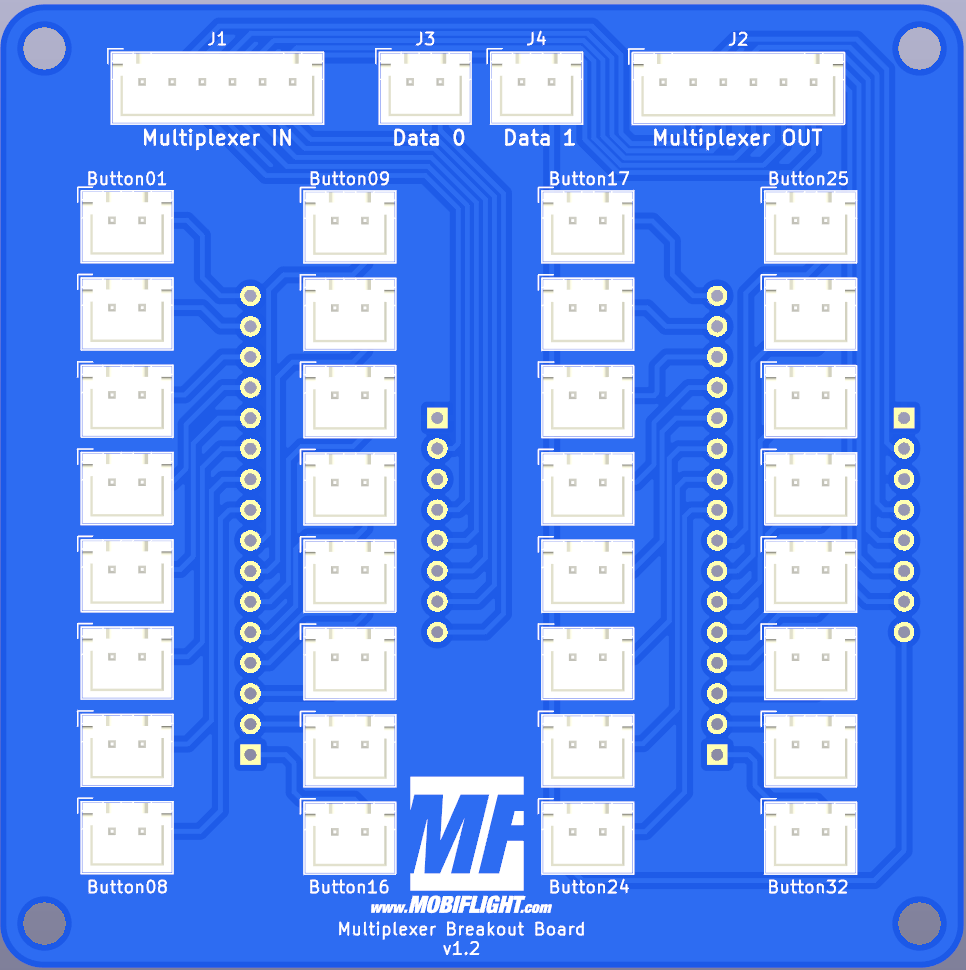
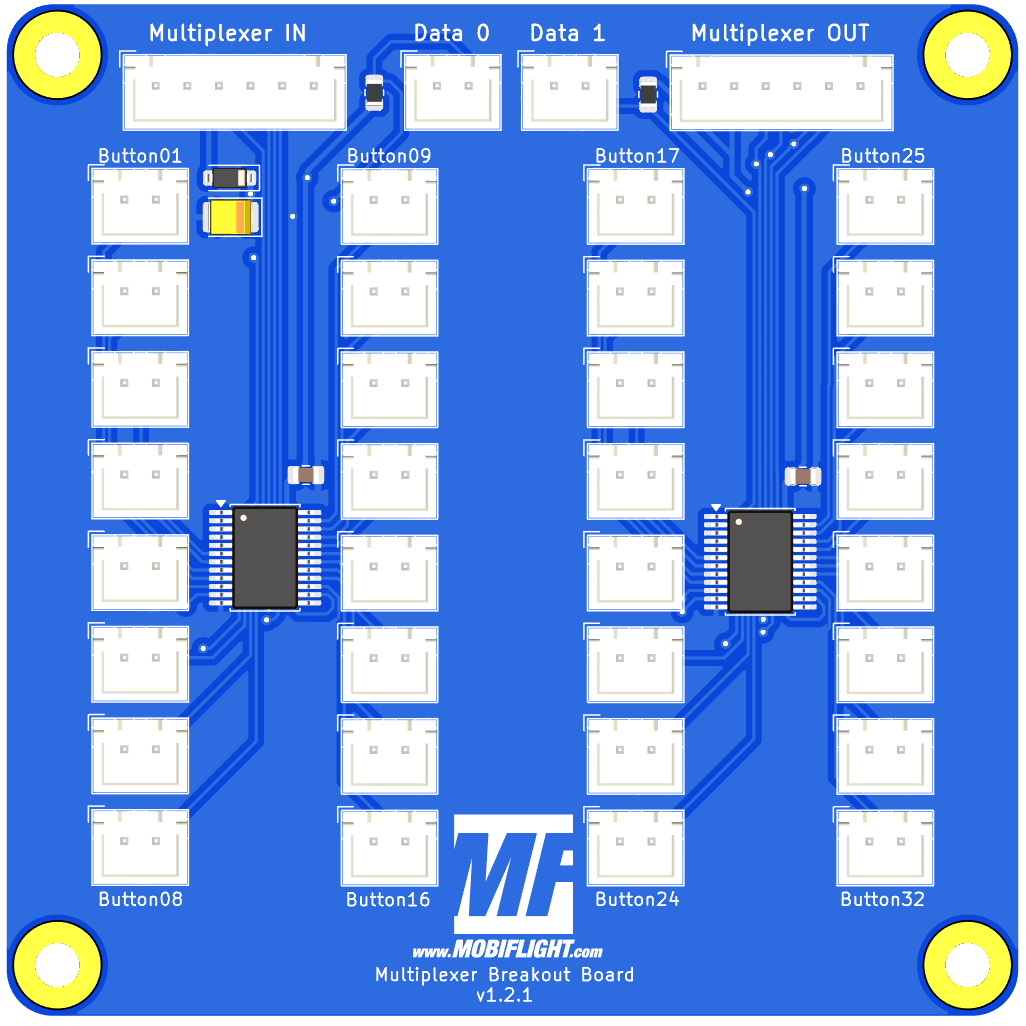
Readme updated to SMD version

diff --git a/breakout-multiplexer/README.md b/breakout-multiplexer/README.md
@@ -75,11 +75,6 @@ Second row of connectors for input devices buttons and switches:
 
 Polarity doesn't matter for switches.
 
-## Mounting of 74HC4067 modules
-![Mounting orientation 74HC4067 modules](breakout-multiplexer-74hc4067.png)
-
-As one can see on the picture, the 74HC4067 are mounted with the silkscreen facing up. Due to the asymmetric connectors, the orientation cannot be confused.
-
 ## Connecting and wiring
 The multiplexer prototyping board is designed to work best together with the [MobiFlight Prototyping Board](https://shop.mobiflight.com/product/prototyping-board-v2). Of course, you can also connect it directly to any of the supported microcontrollers.
 
